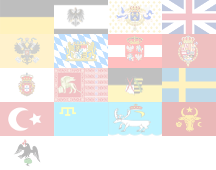
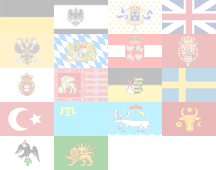
finalised persia's addition; azaps no longer inherits linf's preAttack(); removed some leftover debugging std::cout statements

Changed region(s): [[0.25, 0.7941, 0.5, 1.0]]

diff --git a/xviii/Player.cpp b/xviii/Player.cpp
@@ -57,6 +57,14 @@ spawnedAtBottom{_spawnedAtBottom}
 		spawnableUnits.emplace_back(SpawnableUnit(this, UnitTile::UnitType::KMKH, {4, 2}));
 		spawnableUnits.emplace_back(SpawnableUnit(this, UnitTile::UnitType::DON, {5, 2}));
 	}
+	else if (nation == Player::Nation::PER){
+		spawnableUnits.emplace_back(SpawnableUnit(this, UnitTile::UnitType::PCAV, {3, 1}));
+		spawnableUnits.emplace_back(SpawnableUnit(this, UnitTile::UnitType::MUL, {4, 1}));
+		spawnableUnits.emplace_back(SpawnableUnit(this, UnitTile::UnitType::GUL, {5, 1}));
+		spawnableUnits.emplace_back(SpawnableUnit(this, UnitTile::UnitType::CURCI, {6, 1}));
+		spawnableUnits.emplace_back(SpawnableUnit(this, UnitTile::UnitType::PINF, {1, 2}));
+		spawnableUnits.emplace_back(SpawnableUnit(this, UnitTile::UnitType::KINF, {2, 2}));
+	}
 	//Europeans
 	else{
 		spawnableUnits.emplace_back(SpawnableUnit(this, UnitTile::UnitType::ARTGUARD, {3, 1}));
@@ -321,9 +329,6 @@ sf::Sprite Player::getFlag() const{
 
 void Player::drawUnits(sf::RenderTarget &target, sf::RenderStates states) const{
 	for (auto& unit : units){
-		if (unit == nullptr){
-			std::cout << "wawawaw" << std::endl;
-		}
 		unit->draw(target, states);
 	}
 }

diff --git a/xviii/Player.h b/xviii/Player.h
@@ -76,7 +76,8 @@
 	X(Player::Nation::SPA, TextureManager::Flag::SPA, "Spain")\
 	X(Player::Nation::SWE, TextureManager::Flag::SWE, "Sweden")\
 	X(Player::Nation::VEN, TextureManager::Flag::VEN, "Venice")\
-	X(Player::Nation::WAL, TextureManager::Flag::WAL, "Wallachia")
+	X(Player::Nation::WAL, TextureManager::Flag::WAL, "Wallachia")\
+	X(Player::Nation::PER, TextureManager::Flag::PER, "Persia")
 
 class Player
 {
@@ -141,7 +142,7 @@ class Player
 		/////////////////////////////////////////////////////////////////////////////////////////////////////////
 
 
-		enum class Nation{ AUS, PRU, FRA, GBR, RUS, BAV, COM, SPA, POR, VEN, SAX, SWE, OTO, CRI, IME, MOL, WAL};
+		enum class Nation{ AUS, PRU, FRA, GBR, RUS, BAV, COM, SPA, POR, VEN, SAX, SWE, OTO, CRI, IME, MOL, WAL, PER};
 		Player(World& _world, Nation _nation, std::mt19937& _mt19937, TextureManager& _tm, FontManager& _fm, bool _spawnedAtBottom);
 		
 		//Returns true if successfully spawned unit

diff --git a/xviii/GameState_SelectNations.cpp b/xviii/GameState_SelectNations.cpp
@@ -29,6 +29,7 @@ uiView{sf::FloatRect({}, {}, xResolution, yResolution)}
 	flagMenuItems.push_back({game->mTextureManager.getSprite(TextureManager::Flag::IME), Player::Nation::IME});
 	flagMenuItems.push_back({game->mTextureManager.getSprite(TextureManager::Flag::MOL), Player::Nation::MOL});
 	flagMenuItems.push_back({game->mTextureManager.getSprite(TextureManager::Flag::OTO), Player::Nation::OTO});
+	flagMenuItems.push_back({game->mTextureManager.getSprite(TextureManager::Flag::PER), Player::Nation::PER});
 	flagMenuItems.push_back({game->mTextureManager.getSprite(TextureManager::Flag::POR), Player::Nation::POR});
 	flagMenuItems.push_back({game->mTextureManager.getSprite(TextureManager::Flag::PRU), Player::Nation::PRU});
 	flagMenuItems.push_back({game->mTextureManager.getSprite(TextureManager::Flag::RUS), Player::Nation::RUS});

diff --git a/xviii/Infantry.cpp b/xviii/Infantry.cpp
@@ -195,7 +195,6 @@ std::string Infantry::meleeAttack(Infantry* inf){
 		//OR
 		//if the attacker's FINAL roll is > than the defender's FINAL roll
 		if ((thisRoll_int == 6 && enemyRoll_int < 6) || (thisRoll > enemyRoll)){
-			std::cout << inf->getCartesianPos().x << ", " << inf->getCartesianPos().y << std::endl;
 			sf::Vector2i enemyPos{inf->getCartesianPos()};
 			sf::Vector2i enemyRetreatPos{enemyPos};
 

diff --git a/xviii/Azaps.h b/xviii/Azaps.h
@@ -11,6 +11,9 @@ public:
 	inline virtual int getMaxMov() const{ return maxMov; };
 	inline virtual int getMaxRange() const{ return maxRange; };
 
+	//Override LightInf's preMeleeAttack that gives -2 in melee combat with a blank declaration
+	virtual void preMeleeAttack(UnitTile* unit, bool attacking){};
+
 private:
 	static const int maxhp{6};
 	static const int maxMov{9};

diff --git a/xviii/TextureManager.h b/xviii/TextureManager.h
@@ -12,7 +12,7 @@ public:
 
 	enum class Terrain{MEADOW, HILLS, MUD, ROAD, SLOPES, URBAN, WATER, WOODS};
 	enum class UI{RECTANGLE, BUTTON};
-	enum class Flag{AUS,PRU,FRA, GBR, RUS, BAV, COM, SPA, POR, VEN, SAX, SWE, OTO, CRI, IME, MOL, WAL};
+	enum class Flag{AUS,PRU,FRA, GBR, RUS, BAV, COM, SPA, POR, VEN, SAX, SWE, OTO, CRI, IME, MOL, WAL, PER};
 
 	TextureManager();
 

diff --git a/xviii/TextureManager.cpp b/xviii/TextureManager.cpp
@@ -237,6 +237,10 @@ sf::Sprite TextureManager::getSprite(Flag type){
 	case Flag::WAL:
 		rekt = {0, 4 * counterSize.y, counterSize.x, counterSize.y};
 		break;
+
+	case Flag::PER:
+		rekt = {counterSize.x, 4 * counterSize.y, counterSize.x, counterSize.y};
+		break;
 	}
 
 	return{*flags, rekt};

diff --git a/xviii/xviii.cpp b/xviii/xviii.cpp
@@ -5,9 +5,6 @@
 
 /*
 TODO:
-	-Artillery guard unit & artillery limber features
-	-Malus on movement if too far from general
-	-Split global.h into several files and include only where needed, to reduce the executable size
 	-Implement specialised MudAnt and HillAnt classes
 */
 
